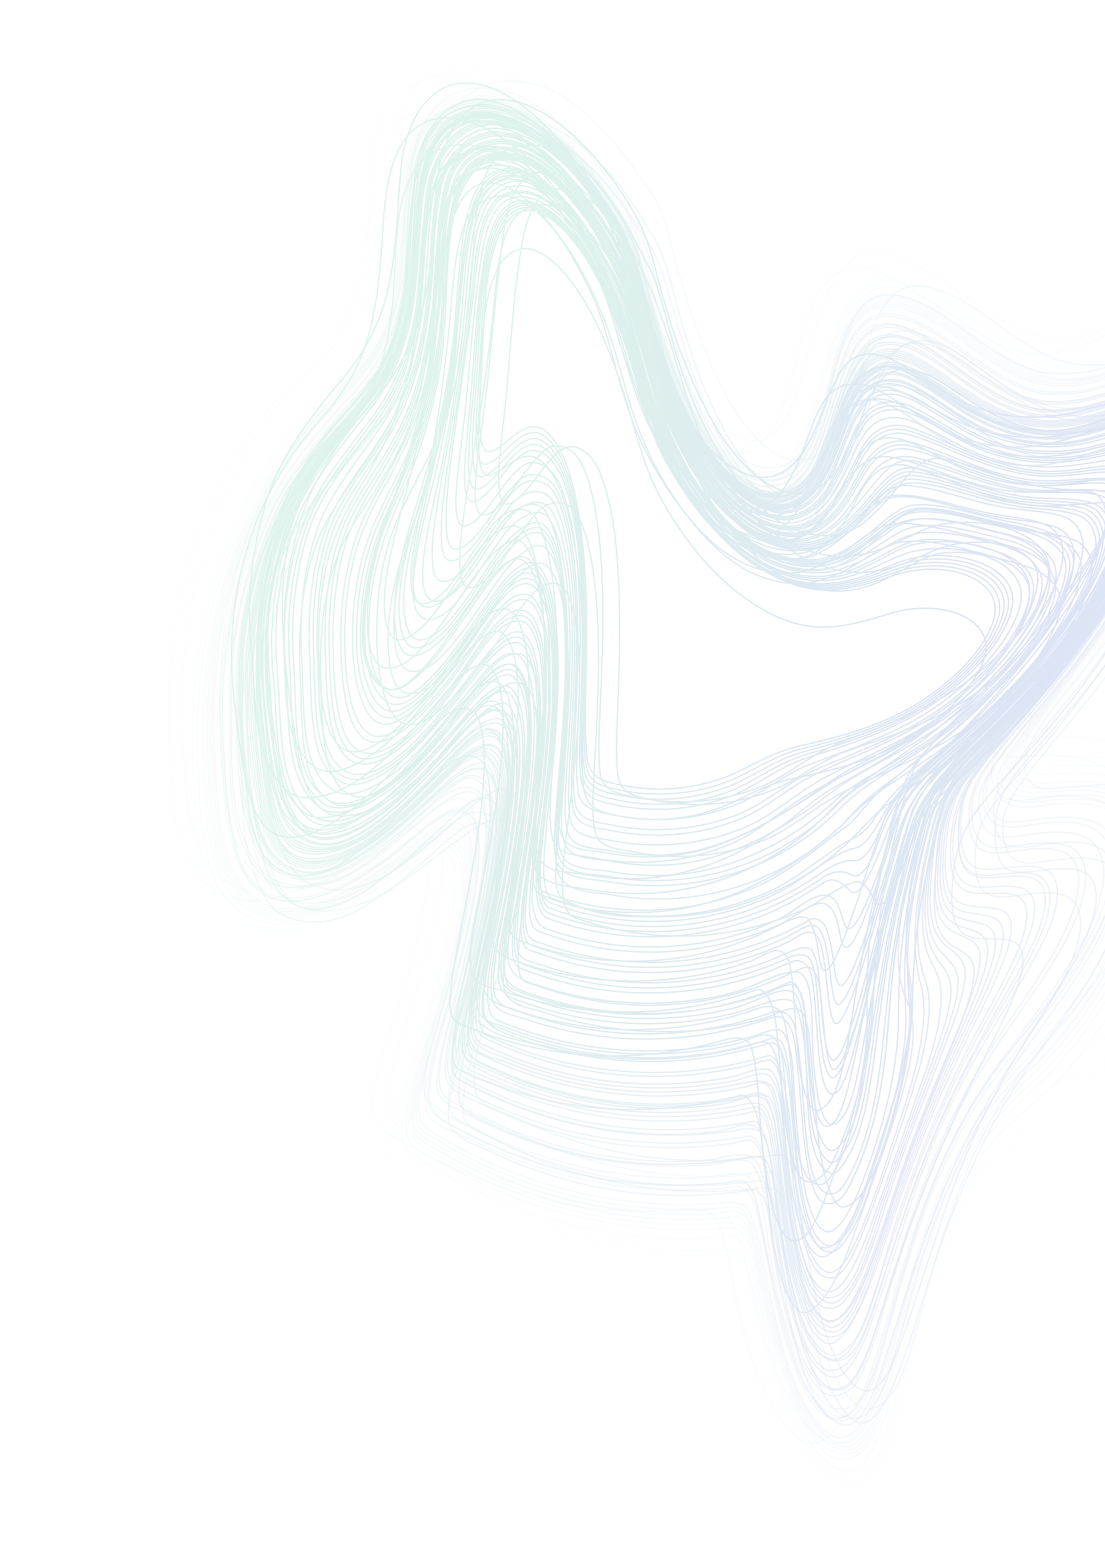
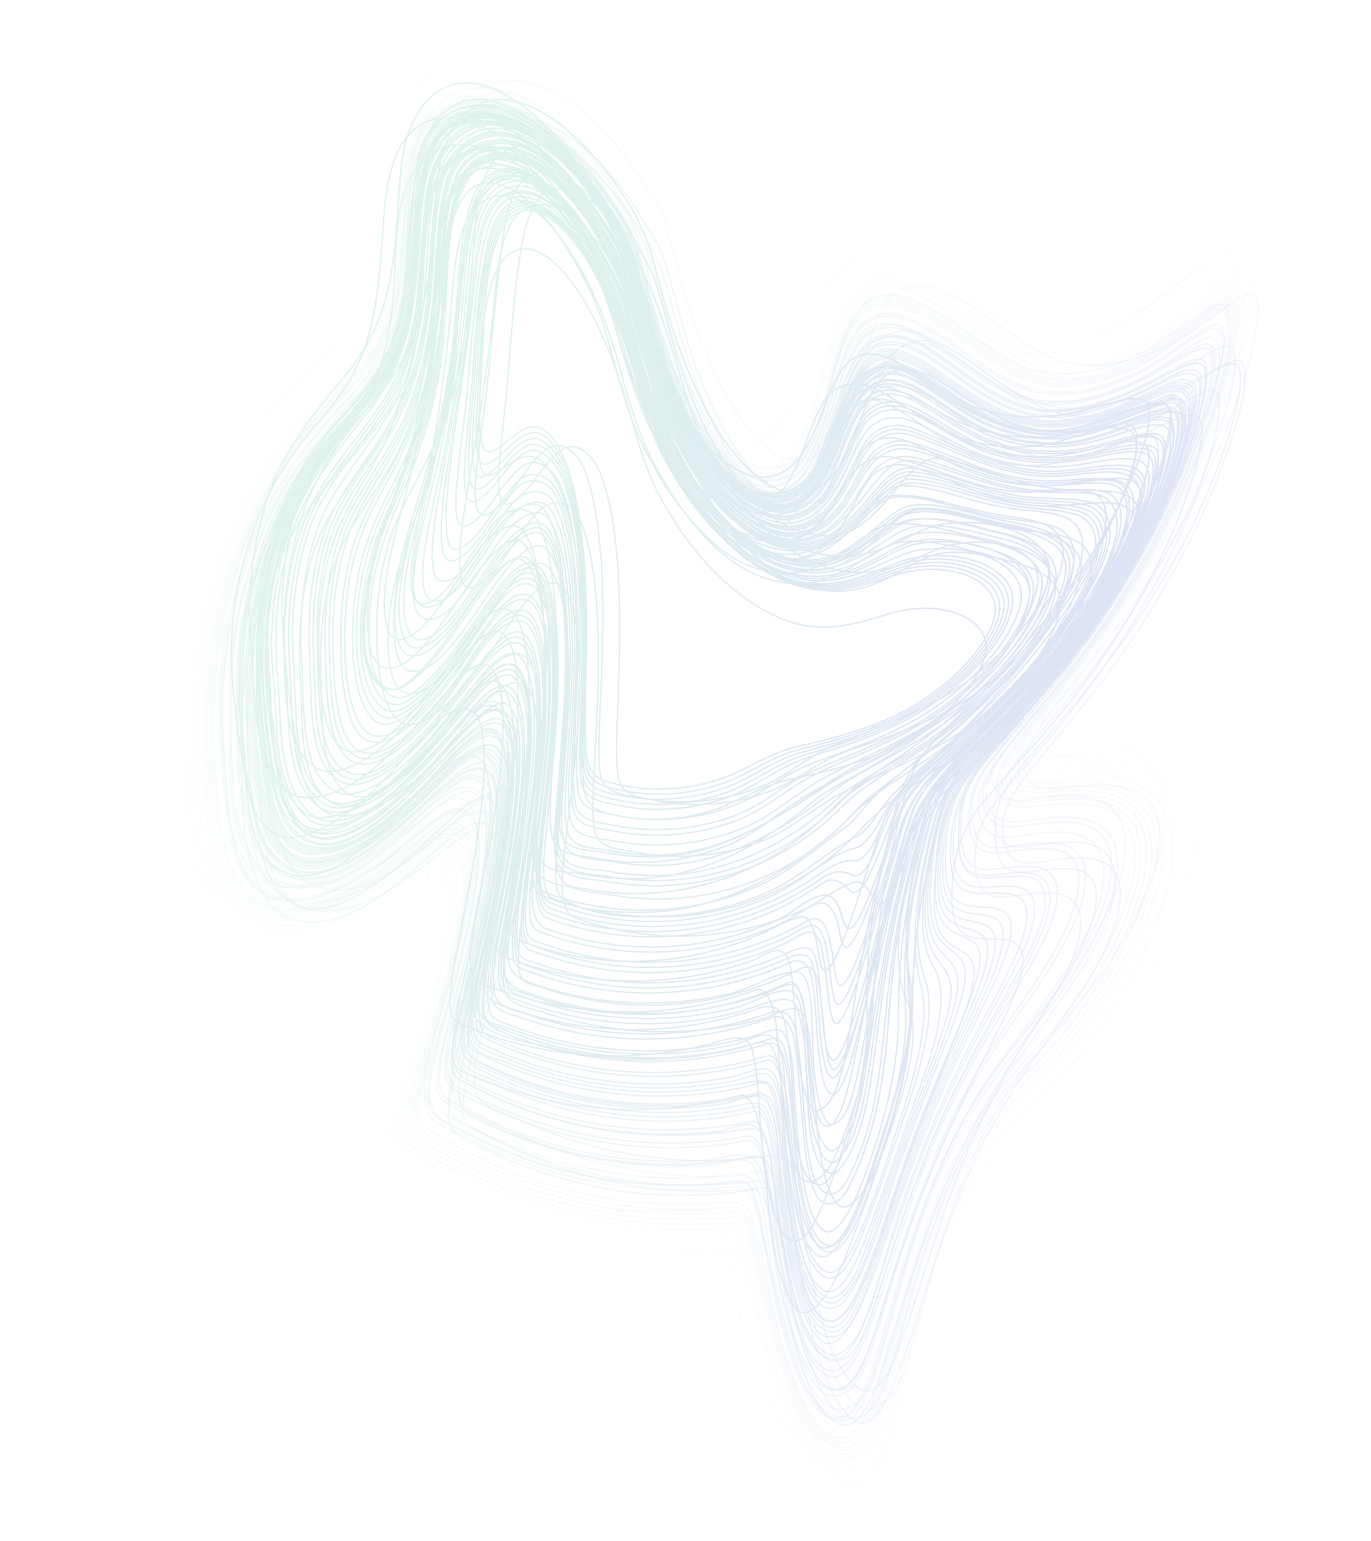
graphic and typos changes

Changed region(s): [[0.1846, 0.0623, 1.0, 0.841]]

diff --git a/components/Index/Main.vue b/components/Index/Main.vue
@@ -8,7 +8,7 @@
             <span class="gradient gradient_two">assets</span> privately
           </h1>
           <p class="paragraph paragraph_medium main__description margin_large">
-            Welcome to Incognitee - an exclusive and discreet hub in the heart of Web3. We enable private transfers and unlink-able voting, so you can play away from the crowd's eyes. Your transactions? - Secret handshakes between you and your chosen peers.
+            Welcome to Incognitee - an exclusive and discreet hub in the heart of Web3. We enable private transfers and unlinkable voting, so you can play away from the crowd's eyes. Your transactions? - Secret handshakes between you and your chosen peers.
           </p>
         </div>
         <div class="main__img-wrapper">
@@ -17,7 +17,7 @@
       </div>
     </div>
   </section>
-</template>
+</template> 
 <style lang="scss" scoped>
 .main {
   padding-top: 90px;

diff --git a/app.vue b/app.vue
@@ -50,10 +50,11 @@ const Header = defineAsyncComponent(() => import('@/components/Header'))
 
 .top-lines {
   position: absolute;
-  right: -430px;
-  top: -300px;
-  width: 1468px;
-  transform: rotate(-159.84deg);
+    right: -152px;
+    top: 436px;
+    width: 1061px;
+    transform: rotate(-159.84deg);
+    z-index: -1;
 
   @include lg {
     width: 1417px;
@@ -85,11 +86,11 @@ const Header = defineAsyncComponent(() => import('@/components/Header'))
 
 .bottom-lines {
   position: absolute;
-  left: -280px;
-  top: -1062px;
-  width: 1060px;
-  transform: rotate(159.84deg) scale(-1, 1);
-  z-index: -1;
+    left: -198px;
+    top: -1858px;
+    width: 936px;
+    transform: rotate(159.84deg) scale(-1, 1);
+    z-index: -1;
 
   @include lg {
     width: 1023px;

diff --git a/components/Index/Partner.vue b/components/Index/Partner.vue
@@ -7,7 +7,7 @@
             Become a partner
           </h2>
           <p class="paragraph paragraph_medium margin_large partner__description">
-            If you are a wallet provider, an exchange or an vaildator operator, get in touch with us.
+            If you are a wallet provider, an exchange or an validator operator, get in touch with us.
           </p>
           <NuxtLink to="https://docs.incognitee.io
 /4.-want-to-join-or-support-incognitee/4.3-become-a-partner" class="btn btn_gradient">Contact</NuxtLink>
